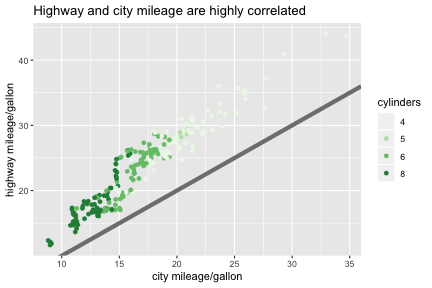
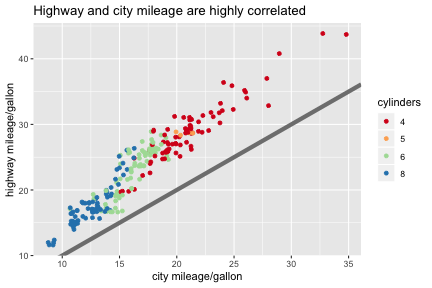
spectralchange

diff --git a/xaringan/xaringan.html b/xaringan/xaringan.html
@@ -322,14 +322,7 @@ class: center, inverse
 labelled &lt;- base +
   labs(x = "city mileage/gallon",y = "highway mileage/gallon",
     colour = "cylinders", title = "Highway and city mileage are highly correlated") +
-  scale_color_brewer(type = "seq", palette = "spectral")
-```
-
-```
-## Warning in pal_name(palette, type): Unknown palette spectral
-```
-
-```r
+  scale_color_brewer(type = "seq", palette="Spectral")
 labelled
 ```
 
@@ -359,7 +352,7 @@ References
 
 Wickham, H. (2016) ggplot2. Elegant graphics for data analysis. Houston, Texas: Springer Nature. 
 
----
+Wilkinson, L. (2005). The grammar of graphics. Statistics and computing, 2nd edn. Springer, New York
     </textarea>
 <style data-target="print-only">@media screen {.remark-slide-container{display:block;}.remark-slide-scaler{box-shadow:none;}}</style>
 <script src="https://remarkjs.com/downloads/remark-latest.min.js"></script>
